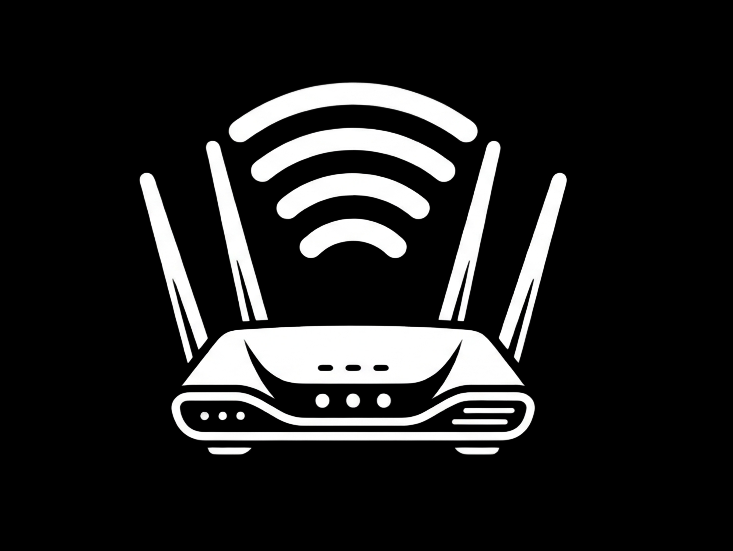
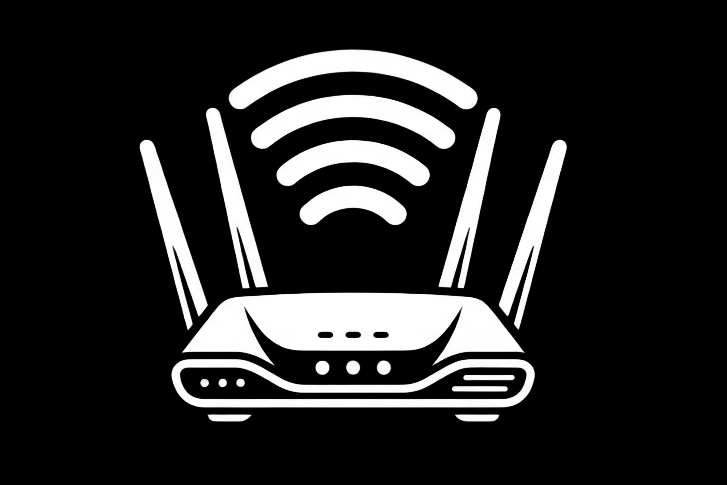
Fix tests for polish successful IP change.

Changed region(s): [[0.1816, 0.0928, 0.7868, 0.8969], [0.6657, 0.3093, 0.696, 0.3711]]

diff --git a/tests/test_reconnection.py b/tests/test_reconnection.py
@@ -152,7 +152,7 @@ class TestReconnection(unittest.TestCase):
         self.assertEqual(router.restart_wan.call_count, 2)
         self.assertEqual(mock_get_ip_address.call_count, 3)
         mock_logger_info.assert_called_with(
-            "IP info after reconnection: %s -> %s %s",
+            "Successfully changed IP: %s -> %s %s",
             "203.0.113.10",
             "198.51.100.25",
             "AS9999 Example ISP",